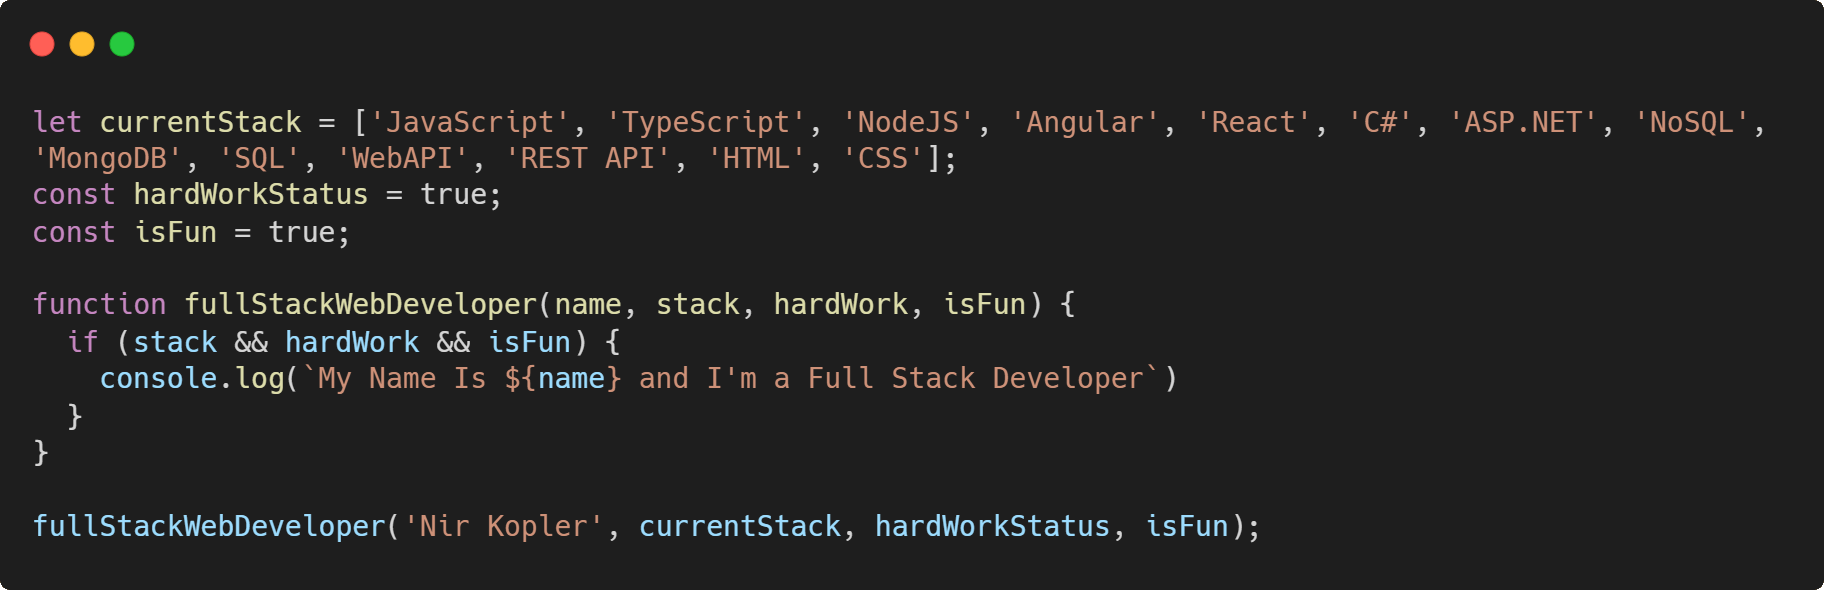
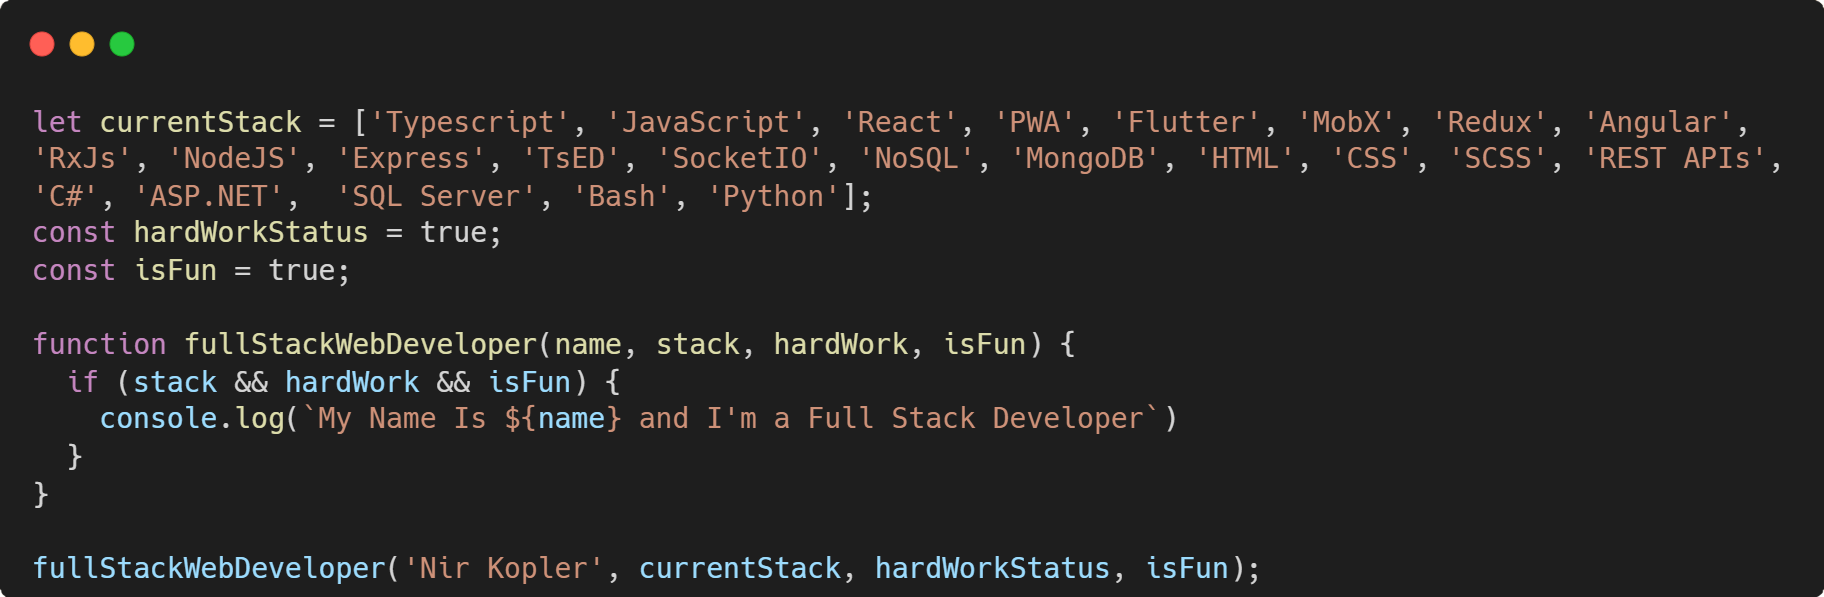
update skills & photo

Changed region(s): [[0.0, 0.1831, 0.9688, 0.7322], [0.0, 0.8542, 0.6875, 0.9763]]

diff --git a/README.md b/README.md
@@ -1,10 +1,16 @@
 # 👋 Hi, I’m @nirkopler
+
 **✨ I'm a Full Stack Developer. Passionate about Building complex web apps with a clean and intuitive UI ✨**
+
 ### 💪 My current stack is :
-#### JavaScript, TypeScript, NodeJS, Angular, React, C#, ASP.NET, NoSQL, MongoDB, SQL, WebAPIs, REST API, HTML, CSS.
+
+#### JavaScript, // Typescript, JavaScript, React, PWA, Flutter, MobX (TS & Dart), Redux, Angular, RxJs, NodeJS, Express, TsED, SocketIO, NoSQL, MongoDB, HTML, CSS, SCSS, REST APIs, C#, ASP.NET, SQL Server, Bash, Python.
+
 - 🌱 I’m always working on a side project 🙄 currently working on a chrome extension in a mission helping other web developers. 🤩
 - 🐱🏍 I'm always ready for my next challenge! 👾
-### 📫 How to reach me: 
+
+### 📫 How to reach me:
+
 [![LinkdIn](https://img.shields.io/badge/LinkedIn-Nir%20Kopler-blue)](https://www.linkedin.com/in/nir-kopler/)
 [![Gmail](https://img.shields.io/badge/GMAIL-nirkopler%40gmail.com-red)](mailto:nirkopler@gmail.com)
 
